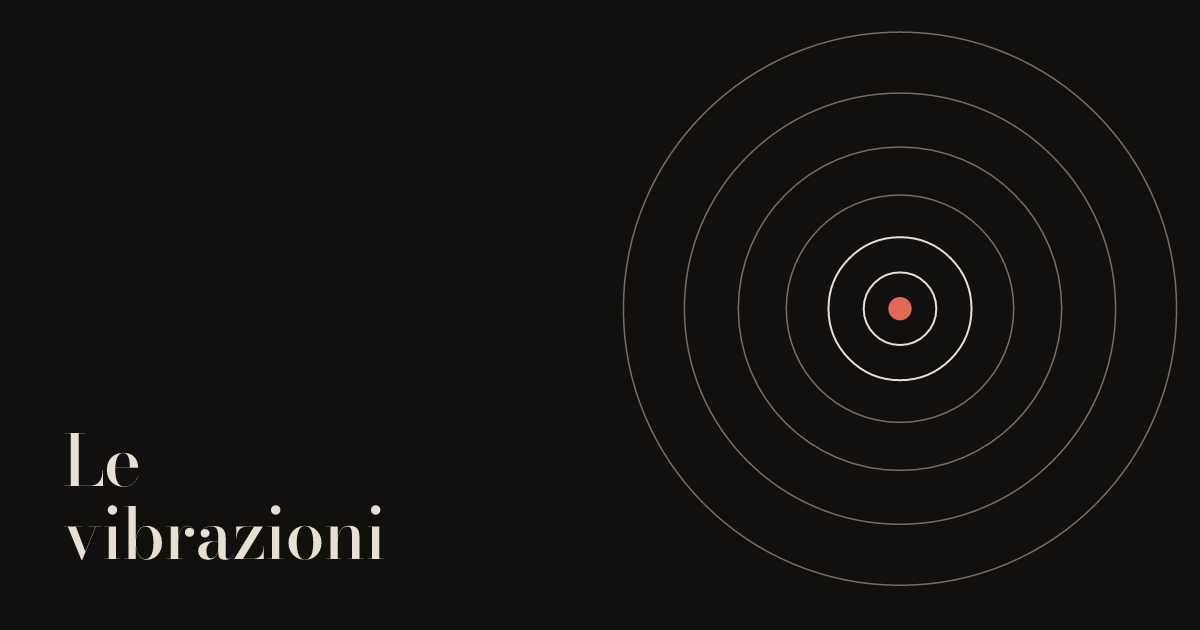
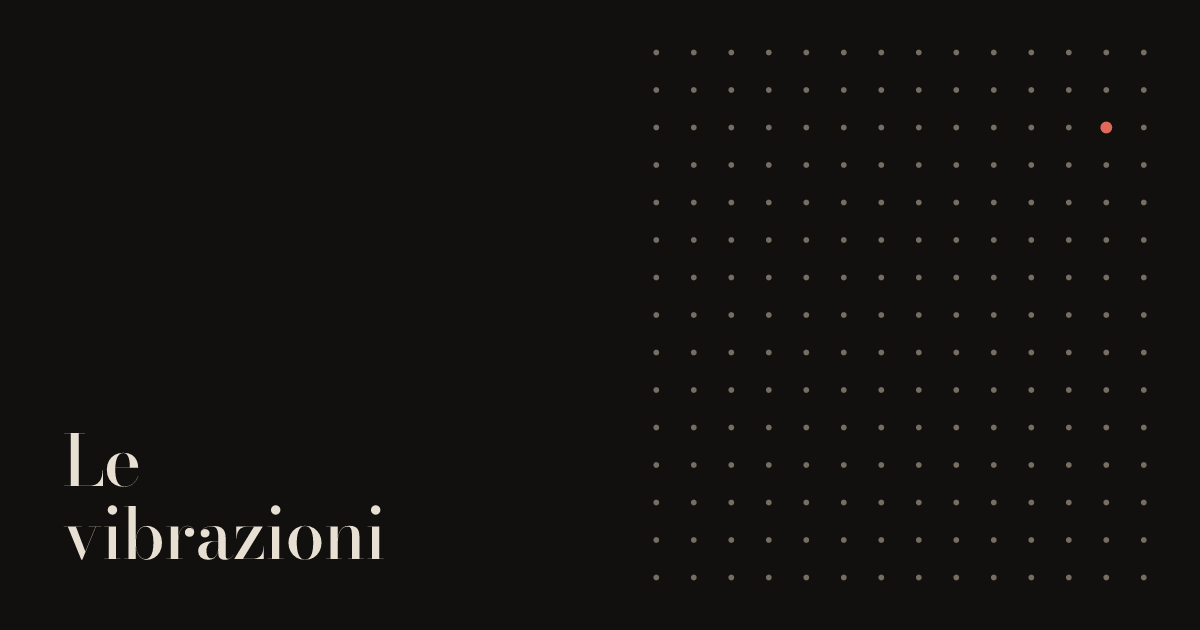
feat(content): add «Al cuore non si comanda», move Le vibrazioni to Esperimenti
- New short story in Esperimenti (and Horror psicologico), text unchanged from
  Elia's draft; fear note from his notes, with the apology to the victims of
  Nassiriya the draft asked to move there.
- New theme tags: guerra, sogni.
- Le vibrazioni: Esperimenti becomes its main fear (cover motif now punti),
  and its fear note is the final one.
- Covers regenerated; catalogue tests updated (5 stories, Esperimenti no
  longer empty: its e2e now checks the list).

diff --git a/tests/e2e/archive.spec.ts b/tests/e2e/archive.spec.ts
@@ -68,14 +68,15 @@ test("the archive lists every story with its cover, and loads Vue", async ({ pag
   });
   await openArchive(page);
 
-  await expect(status(page)).toHaveText("4 racconti");
+  await expect(status(page)).toHaveText("5 racconti");
   await expect(cardTitles(page)).toHaveText([
+    "Al cuore non si comanda",
     "Senza Rimorso",
     "Il limbo dei processi",
     "Se ni' mondo esistesse un po' di male",
     "Le vibrazioni",
   ]);
-  await expect(page.getByRole("main").locator("svg.ct-copertina")).toHaveCount(4);
+  await expect(page.getByRole("main").locator("svg.ct-copertina")).toHaveCount(5);
   expect(scripts.some((path) => path.includes("SearchBrowser"))).toBe(true);
   // MiniSearch and the index wait for the first search.
   expect(scripts.some((path) => path.includes("search-index"))).toBe(false);
@@ -98,7 +99,7 @@ test("a filter narrows the list and goes into the URL; «back» undoes it", asyn
   await page.goBack();
 
   await expect(page).toHaveURL(/\/racconti$/);
-  await expect(status(page)).toHaveText("4 racconti");
+  await expect(status(page)).toHaveText("5 racconti");
 });
 
 test("the search finds a story, forgiving a typo, and keeps the text in the URL", async ({
@@ -116,7 +117,7 @@ test("the search finds a story, forgiving a typo, and keeps the text in the URL"
   await expect(status(page)).toHaveText("Nessun racconto qui, per ora.");
 
   await page.getByRole("button", { name: "Azzera ricerca e filtri" }).click();
-  await expect(status(page)).toHaveText("4 racconti");
+  await expect(status(page)).toHaveText("5 racconti");
   await expect(page).toHaveURL(/\/racconti$/);
 });
 
@@ -137,8 +138,8 @@ test("without JavaScript the archive is the full list, with no dead controls", a
   const page = await context.newPage();
   await page.goto("/racconti");
 
-  await expect(cardTitles(page)).toHaveCount(4);
-  await expect(status(page)).toHaveText("4 racconti");
+  await expect(cardTitles(page)).toHaveCount(5);
+  await expect(status(page)).toHaveText("5 racconti");
   await expect(page.getByRole("searchbox")).toBeHidden();
   await expect(page.getByRole("combobox", { name: "Ordina per" })).toBeHidden();
   await expect(page.getByRole("button", { name: /^Slasher \d/ })).toBeHidden();
@@ -169,9 +170,16 @@ test("a fear page lists its stories and the other fears, without Vue", async ({ 
   expect(scripts.some((path) => /vue|client\.|SearchBrowser/i.test(path))).toBe(false);
 });
 
-test("an empty fear says so", async ({ page }) => {
+// Esperimenti was the empty fear until «Al cuore non si comanda»; every fear
+// now has stories, so the empty state is covered by the component test
+// (src/features/categories/components/categories.test.ts).
+test("Esperimenti lists its stories, newest first", async ({ page }) => {
   await page.goto("/esperimenti");
 
   await expect(page.getByRole("heading", { level: 1 })).toHaveText("Esperimenti");
-  await expect(page.getByRole("main")).toContainText("Nessun racconto qui, per ora.");
+  await expect(cardTitles(page)).toHaveText([
+    "Al cuore non si comanda",
+    "Le vibrazioni",
+    "Le altre paure",
+  ]);
 });

diff --git a/tests/integration/content.test.ts b/tests/integration/content.test.ts
@@ -43,7 +43,7 @@ const stories: StoryLike[] = readStoryFiles().map(({ id, frontmatter, body }) =>
 
 describe("content files", () => {
   it("are all valid against their schemas", () => {
-    expect(stories).toHaveLength(4);
+    expect(stories).toHaveLength(5);
     expect(tags.length).toBeGreaterThan(0);
     expect(fears.map((fear) => fear.id)).toEqual([
       "body-horror",
@@ -64,8 +64,9 @@ describe("content files", () => {
     expect(problems).toEqual([]);
   });
 
-  it("give the launch catalogue: 3 complete stories plus Senza Rimorso ongoing", () => {
+  it("give the catalogue: 4 complete stories plus Senza Rimorso ongoing", () => {
     expect(sortByPublished(stories).map((story) => [story.id, story.data.status])).toEqual([
+      ["al-cuore-non-si-comanda", "complete"],
       ["senza-rimorso", "ongoing"],
       ["il-limbo-dei-processi", "complete"],
       ["se-ni-mondo-esistesse-un-po-di-male", "complete"],
@@ -82,7 +83,7 @@ describe("content files", () => {
     ]);
   });
 
-  it("put at least one story in every fear except Esperimenti", () => {
+  it("put at least one story in every fear", () => {
     const counts = countByFear(
       stories,
       fears.map((fear) => fear.id),
@@ -90,10 +91,10 @@ describe("content files", () => {
 
     expect(Object.fromEntries(counts)).toEqual({
       "body-horror": 1,
-      "horror-psicologico": 3,
+      "horror-psicologico": 4,
       slasher: 2,
       liminale: 1,
-      esperimenti: 0,
+      esperimenti: 2,
     });
   });
 });

diff --git a/src/core/content/stories/al-cuore-non-si-comanda.md b/src/core/content/stories/al-cuore-non-si-comanda.md
@@ -1,0 +1,66 @@
+---
+# The first real story, from Elia's «Racconti brevi» document (17 October 2026).
+# The text is his, unchanged; only the Markdown layout was added.
+title: Al cuore non si comanda
+categories: [esperimenti, horror-psicologico]
+tags:
+  places: [pisa]
+  themes: [diario, guerra, sogni]
+  inspirations: []
+label: Horror psicologico
+logline: Le memorie di un ex militare, un elicottero sopra Pisa e un portellone aperto.
+setting: Provincia di Pisa, ottobre 2003
+publishedAt: 2026-10-17
+warnings: [morte violenta, guerra, malattia mentale]
+status: complete
+seo:
+  title: Al cuore non si comanda – racconto horror breve
+  description: Le memorie di un ex militare dell'Aeronautica, un volo sopra la provincia di Pisa e un portellone aperto. Un breve esperimento di horror psicologico.
+related: [le-vibrazioni, il-limbo-dei-processi]
+fearNote: |
+  Questo racconto è nato da un sogno fatto un pomeriggio. Ero all'interno di un elicottero quando una forza invisibile mi ha spinto fuori dal portellone, e le vertigini mi hanno svegliato. Sono rimaste anche dopo, mentre cercavo di ricordare il vuoto sotto i piedi.
+
+  Volevo scrivere di quella spinta. Poi, scrivendo, la storia è diventata un'altra: quella di un uomo che ricorda una caduta di cui nessuno ha traccia, e che continua a scriverla.
+
+  Il racconto sfiora una tragedia vera. Per questo chiudo con delle scuse alle vittime dell'attentato di Nassiriya e alle loro famiglie, a nome del protagonista, che non è in condizione di farlo.
+---
+
+Mi chiamo Alessandro, per gli amici Sandro, ho 50 anni e vivo da 30 anni…No, aspetta, sono 30 anni o di meno? tra casa mia e una struttura psichiatrica dal giorno in cui, Giovanni, ex militare come me, non morì spiaccicato a terra mentre eravamo tutti in missione con l'aeronautica italiana. Sto scrivendo le mie memorie perché, secondo lo psicanalista che mi segue, mi aiuteranno a combattere malattie neurodegenerative.
+
+Era un giorno molto soleggiato, direi molto caldo per essere ottobre, e io, Giovanni, Paolo e il capitano Enrico eravamo seduti sulle panche ai lati dell’elicottero. Ricordo come oggi che stavamo sorvolando i cieli della provincia di Pisa per recarci alla base militare americana di Camp Darby, vicino Livorno, per discutere di una missione congiunta con gli Alleati in Iraq, quella che sarebbe divenuta per noi italiani la tragedia di Nassiriya.
+
+A differenza di quanto si possa credere, nessuno di noi a bordo era contento di partire, anche se eravamo solidali con i nostri colleghi americani per quello che successe a New York l’11 settembre di due anni prima. A bordo discutevamo animatamente su quanto i soldati iracheni fossero temibili, soprattutto i mercenari delle milizie di Al-Qaeda ci incutevano terrore.
+
+Ad un tratto il capitano ci avvisò che da Camp Darby avevano dato disposizioni sul fatto che noi saremmo dovuti essere in prima linea, i primi a colpire.
+
+Giovanni si alzò in piedi, portò le mani al volto e iniziò a piangere. Si era sposato due mesi prima e sua moglie aspettava un figlio.
+
+Disse: “No, non posso credere che diventeremo carne da macello. Non voglio morire”.
+
+Si portò una mano al petto, e ci guardò. Le sue labbra avevano un colore bluastro e il suo sguardo era privo di espressività come se stesse scrutando nel vuoto più totale. Si avvicinò al portellone aperto e, con una naturalezza quasi irreale cadde nel vuoto sotto di noi.
+
+Così se ne andò un grande uomo, un professionista impeccabile e un amico fedele. Il suo corpo non fu più ritrovato.
+
+Io rimasi a fissare dal finestrino il paesaggio che si stendeva sotto di noi, ormai in prossimità dell’aeroporto di Pisa. La FI-PI-LI strisciava tra i verdi campi coltivati e l’Arno come un serpente lunghissimo e gli aerei parcheggiati sul piazzale sembravano adesso formiche in lontananza.
+
+La cosa che mi ha fatto finire in questa struttura è stata l’incapacità dei superiori di posporre i doveri militari di fronte a una simile tragedia, come se la vita di una persona non contasse nulla davanti all’ombra della macchina bellica.
+
+***
+
+**U.O. Psichiatria – Diario clinico**
+
+**Paziente:** R. G., anni 50 · **Data:** 15/10/2026 · **Redatto da:** Dott. Bellocchio
+
+**Nota allegata al diario personale del paziente.**
+
+Il paziente redige da alcuni mesi delle memorie in prima persona a nome di “Alessandro”, ex militare dell’Aeronautica. I dati riferiti non trovano riscontro nell’anamnesi: il paziente ha svolto attività di dirigente d’azienda in provincia di Sondrio, senza precedenti di servizio militare.
+
+Data di primo ricovero: 12/11/2003.
+
+Dalle verifiche effettuate non risulta in servizio alcun “Giovanni Peci” nel periodo indicato. Nessun evento analogo a quello descritto risulta documentato.
+
+**Neuroimaging (RM encefalo con mdc, controllo annuale):** confermata la formazione espansiva in sede temporo-occipitale, a contatto con il tentorio cerebellare, di natura verosimilmente benigna. Dimensioni invariate. La lesione presenta caratteristiche di tessuto nervoso organizzato. All’fMRI si conferma attività autonoma della lesione durante le sessioni di scrittura del paziente.
+
+**Conclusioni:** quadro in corso di definizione. Si prosegue il monitoraggio.
+
+Il paziente oggi mi ha chiamato Enrico. Ha detto: “Capitano, il portellone è ancora aperto.”

diff --git a/src/core/content/stories/le-vibrazioni.md b/src/core/content/stories/le-vibrazioni.md
@@ -1,9 +1,11 @@
 ---
 # PLACEHOLDER: title, label, logline, setting and SEO come from the SEO brief v2;
 # date, warnings, tags and the text are provisional (ROADMAP › Open points).
+# The fear note is final (Elia, 17 October 2026).
 # Already on Wattpad: add `wattpadUrl` once the story's address is confirmed.
 title: Le vibrazioni
-categories: [horror-psicologico, body-horror]
+# Esperimenti first (Elia, 17 October 2026): it is the main fear, so the cover uses `punti`.
+categories: [esperimenti, horror-psicologico, body-horror]
 tags:
   places: []
   themes: [lavoro, ansia, corpo]
@@ -22,11 +24,9 @@ starter:
   hook: Se cerchi la carne
 related: [il-limbo-dei-processi, senza-rimorso]
 fearNote: |
-  [Segnaposto] La nota definitiva racconterà la paura da cui è nato questo racconto: la suoneria del telefono dell'ufficio in aeroporto, l'ansia di dover rispondere, il corpo che si irrigidisce a ogni squillo.
+  Questo racconto è nato da una suoneria: quella dei cellulari Samsung, che avevo sul telefono dell'ufficio quando lavoravo in aeroporto. Per me quel suono voleva dire una cosa sola, ansia e stress. Ogni volta che partiva sapevo che dall'altra parte qualcuno aspettava una risposta, e che dovevo darla subito. Col tempo bastavano le prime note per sentire il corpo irrigidirsi, ancora prima di guardare lo schermo.
 
-  Sarà scritta in prima persona, fra le ottanta e le centocinquanta parole, con un dettaglio fisico preciso, nessuna morale e senza spiegare il finale. Sul sito comparirà subito dopo il testo, prima del modulo per i commenti.
-
-  Questo testo di prova serve solo a verificare l'impaginazione e i controlli automatici del sito, e verrà sostituito prima del lancio.
+  Quella suoneria è stata il punto di partenza. Poi, scrivendo, l'ho espansa in qualcosa di mio, che con l'ufficio non ha quasi più niente a che fare.
 ---
 
 [Segnaposto] Un racconto breve, senza capitoli: il testo vero arriverà con la versione definitiva.

diff --git a/ROADMAP.md b/ROADMAP.md
@@ -234,6 +234,7 @@ production after the merge (previews are behind Vercel Authentication). See `doc
 - [ ] Domain
 - [ ] SEO title and description of /racconti (`features/search/copy.ts`) and of the five fear pages (`seo` in `fears.json`): written in PR 6 on the SEO brief's pattern, to be checked by Elia against the brief
 - [ ] Real texts, fear notes, warnings, dates and tags for each story (placeholders marked `[Segnaposto]` in `src/core/content/stories`)
+  - 2026-10-17: first real story, *Al cuore non si comanda* (Esperimenti); *Le vibrazioni* moved to Esperimenti as its main fear, with its final fear note (text still a placeholder)
 - [ ] Wattpad addresses of Le vibrazioni and Senza Rimorso (`wattpadUrl` in their frontmatter)
 - [x] Photo `abat-jour-notte.jpg` in the homepage Hero (`src/assets/foto`, optimised by `astro:assets`)
 - [x] Books list (sent by Elia on 2026-10-17)

diff --git a/README.md b/README.md
@@ -215,8 +215,10 @@ Content Collections ([`src/content.config.ts`](src/content.config.ts)):
 
   In a chat, `--` marks a system line and `!!` the line that breaks the scene. In a log, `ERR`
   lines are errors, `~ ` adds a static glitch and `~~ ` the live one (at most one per block).
-- The launch stories are **placeholders**: their metadata comes from the SEO brief, but the text
-  and the fear notes are marked `[Segnaposto]` until the real ones arrive.
+- The four launch stories are **placeholders**: their metadata comes from the SEO brief, but the
+  text and the fear notes are marked `[Segnaposto]` until the real ones arrive (*Le vibrazioni*
+  already has its real fear note). *Al cuore non si comanda*, in Esperimenti, is the first real
+  story.
 
 ### Homepage
 
